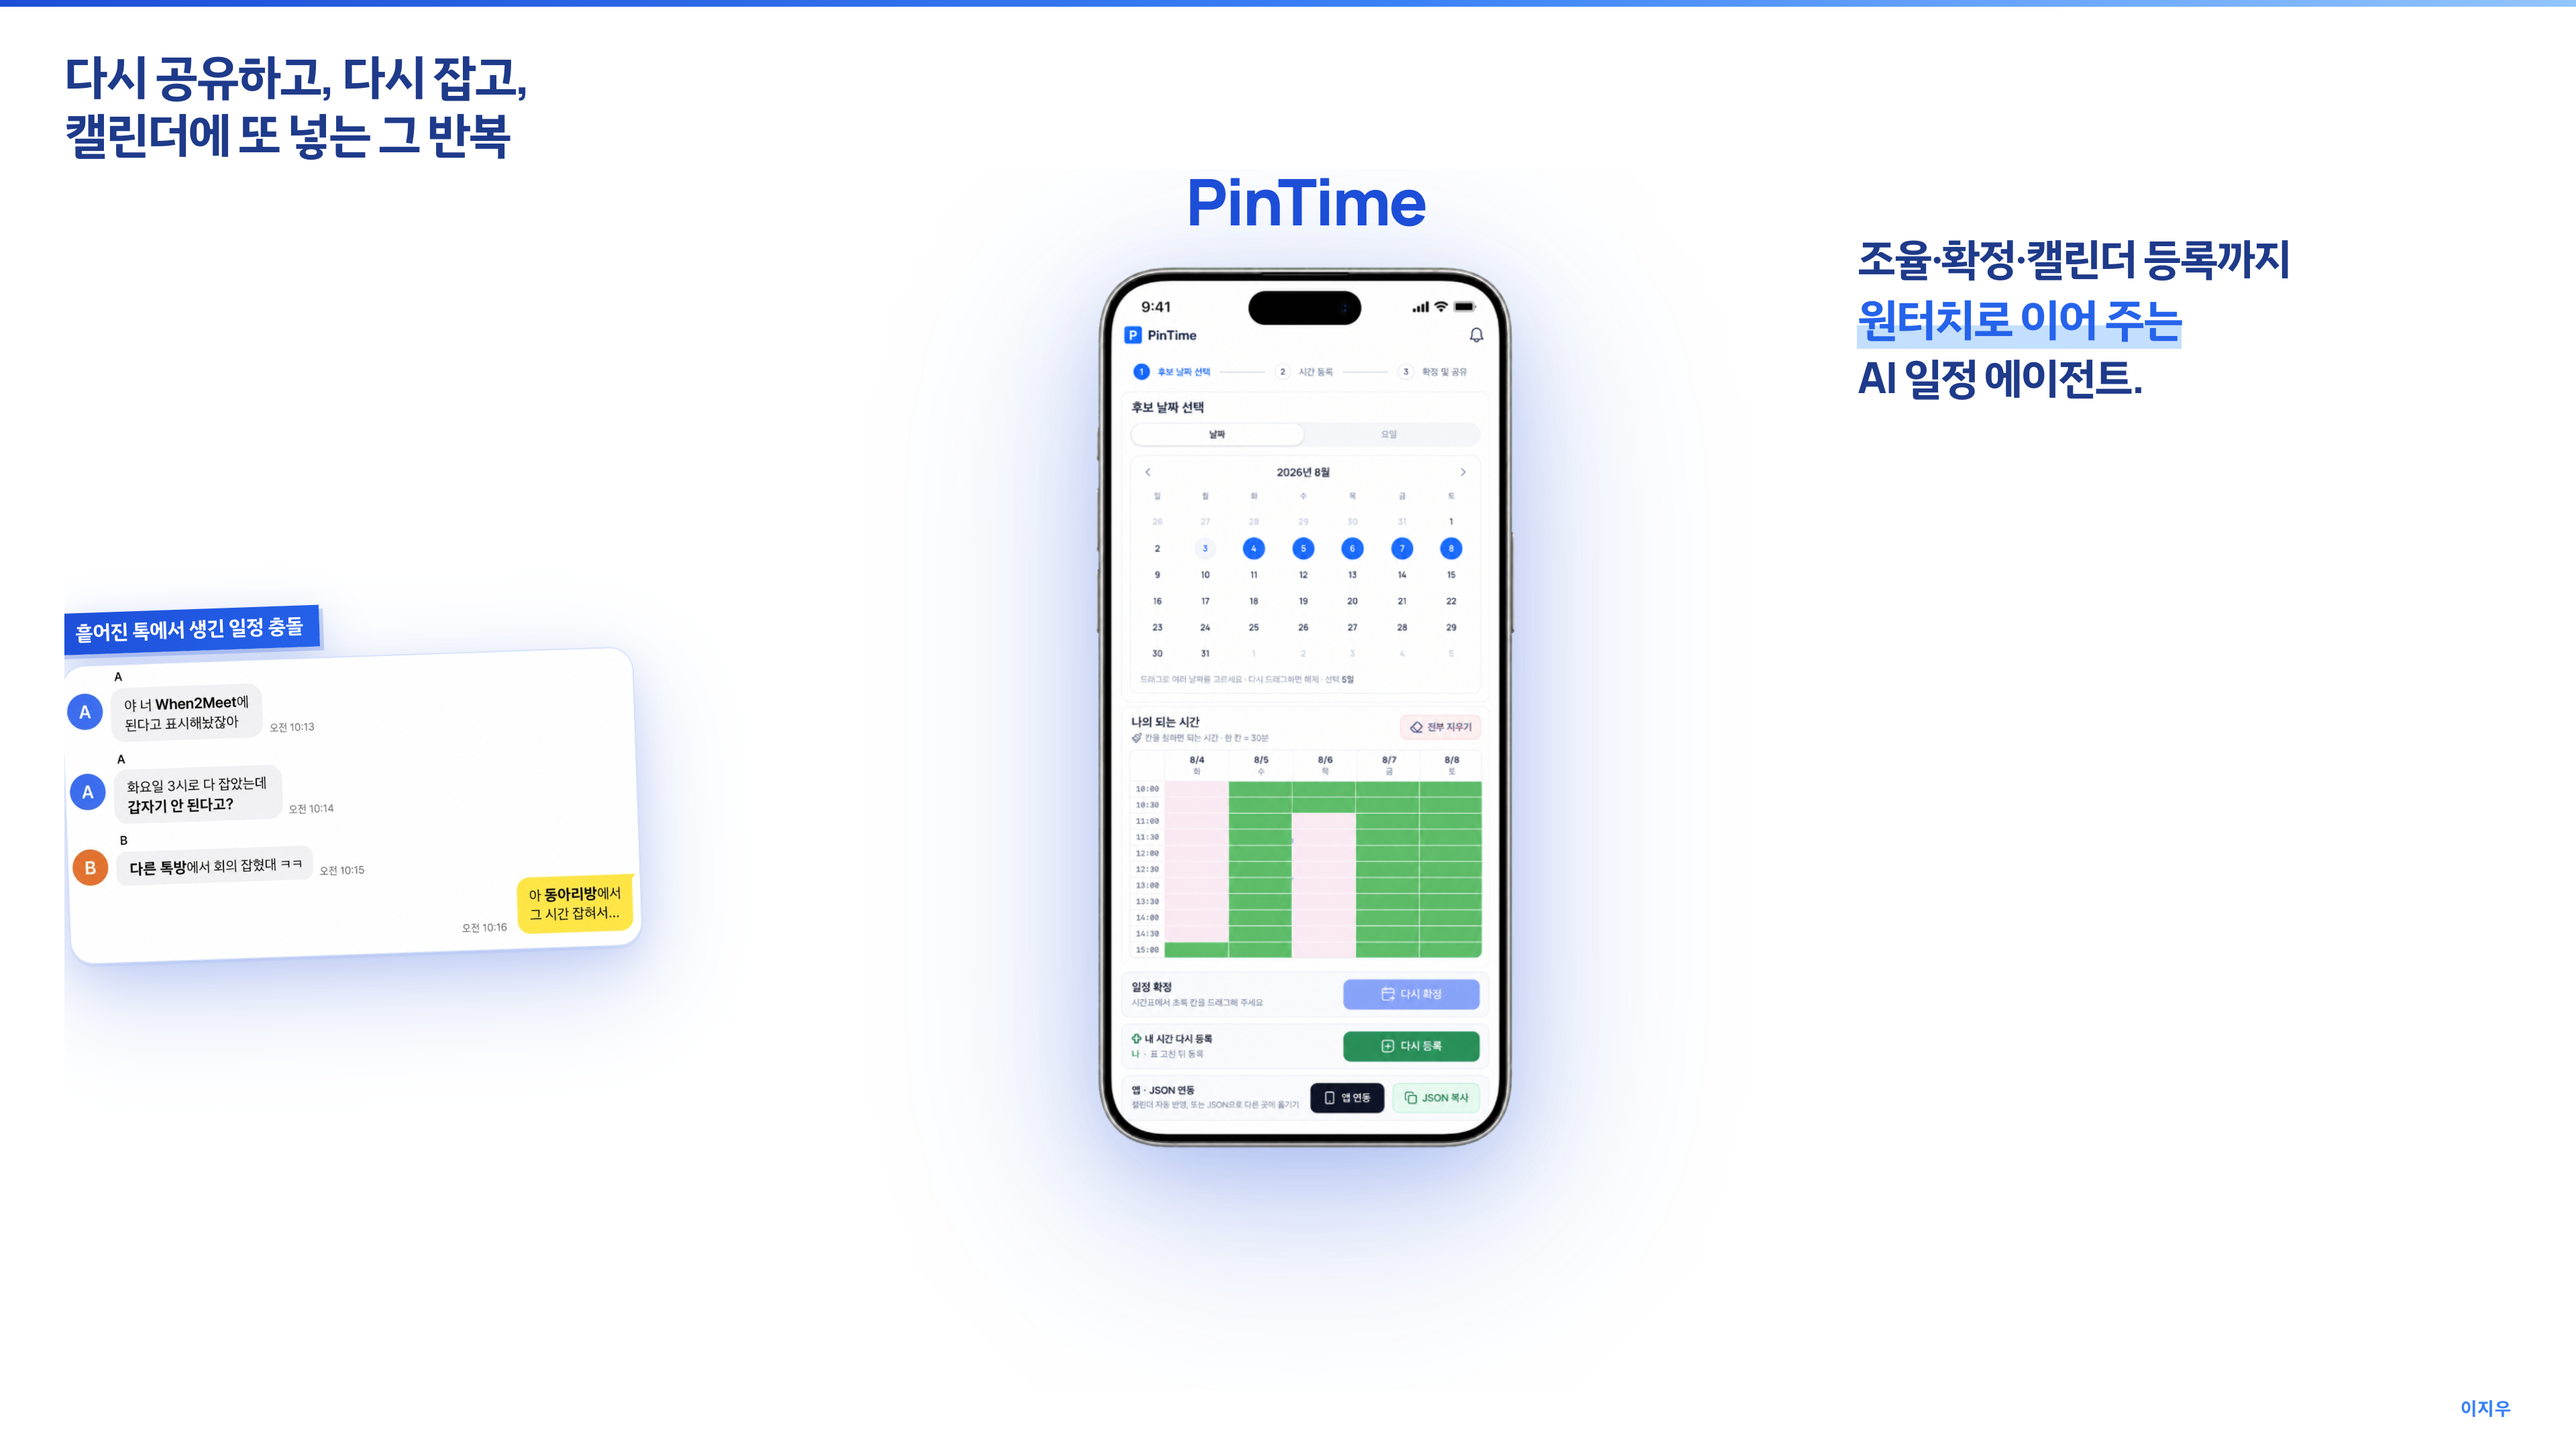
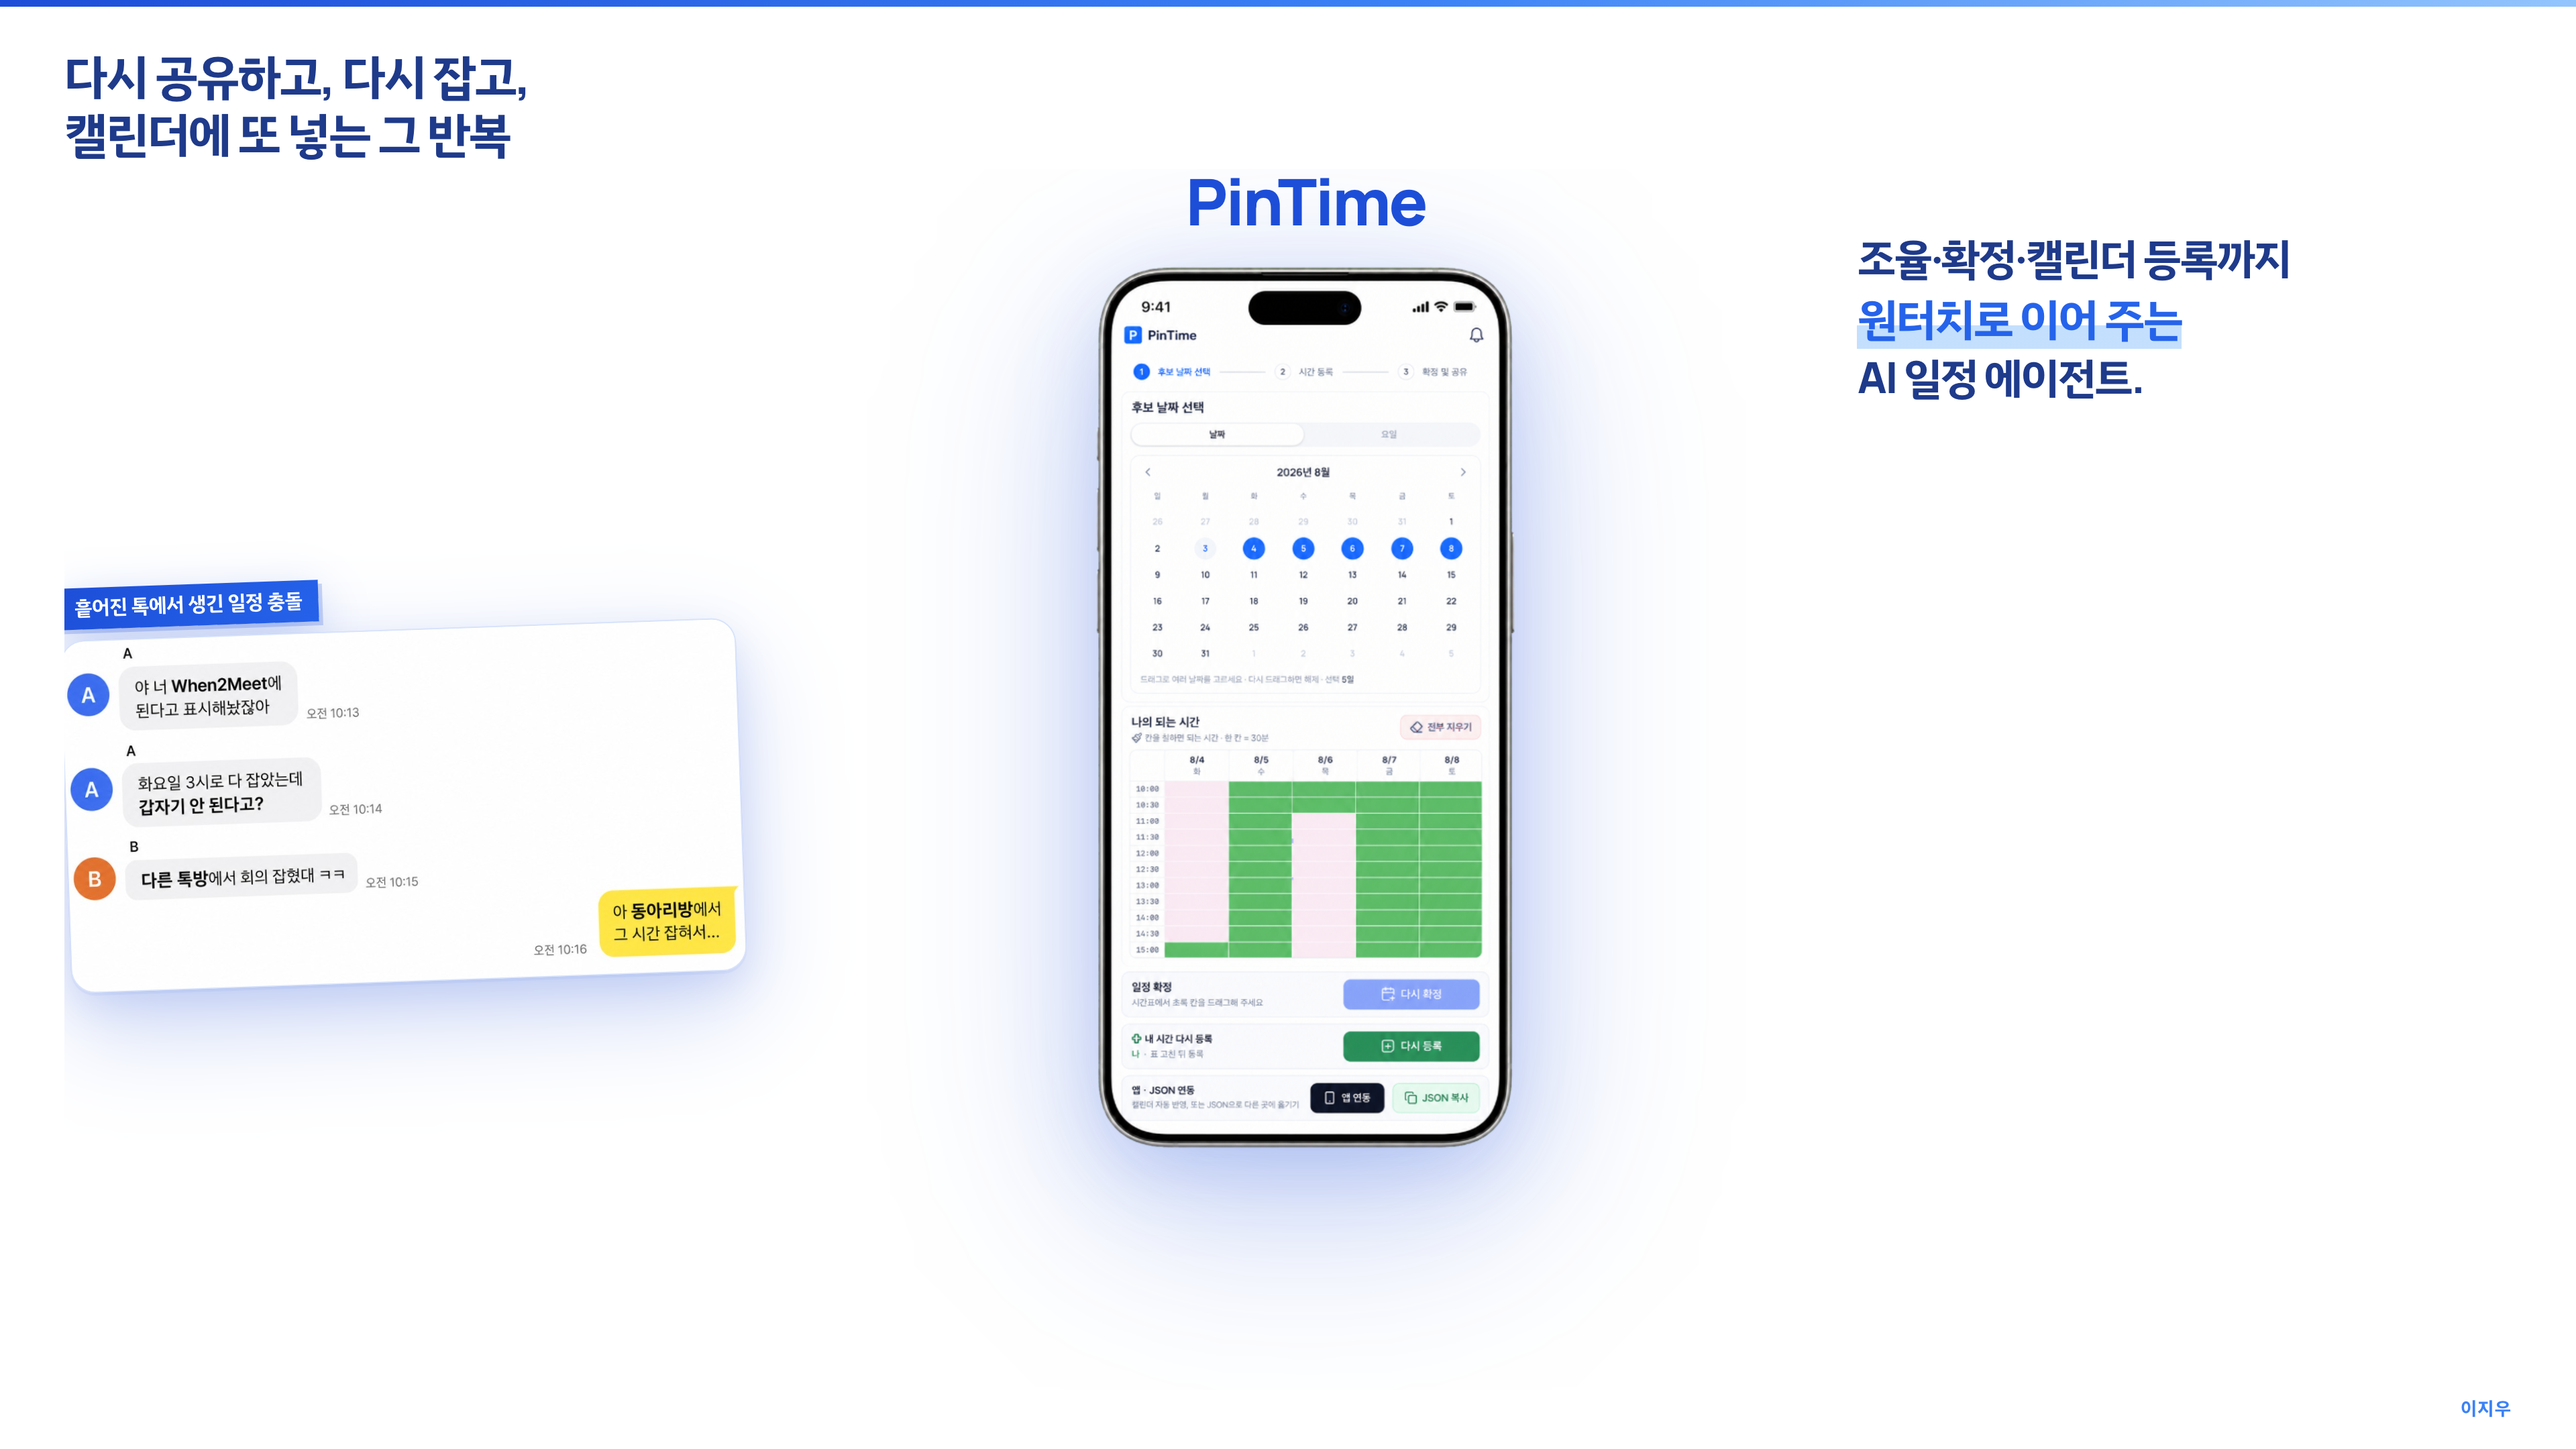
Scale cover Kakao conflict chat to 1.2x.

Changed region(s): [[0.0312, 0.4653, 0.3125, 0.7134], [0.0, 0.4032, 0.1562, 0.6204], [0.2188, 0.4963, 0.25, 0.5273]]

diff --git a/public/pitch.html b/public/pitch.html
@@ -1213,7 +1213,7 @@
         justify-self: stretch;
         align-self: center;
         width: 100%;
-        max-width: 4.45in;
+        max-width: 5.34in;
         display: flex;
         flex-direction: column;
         gap: 8px;
